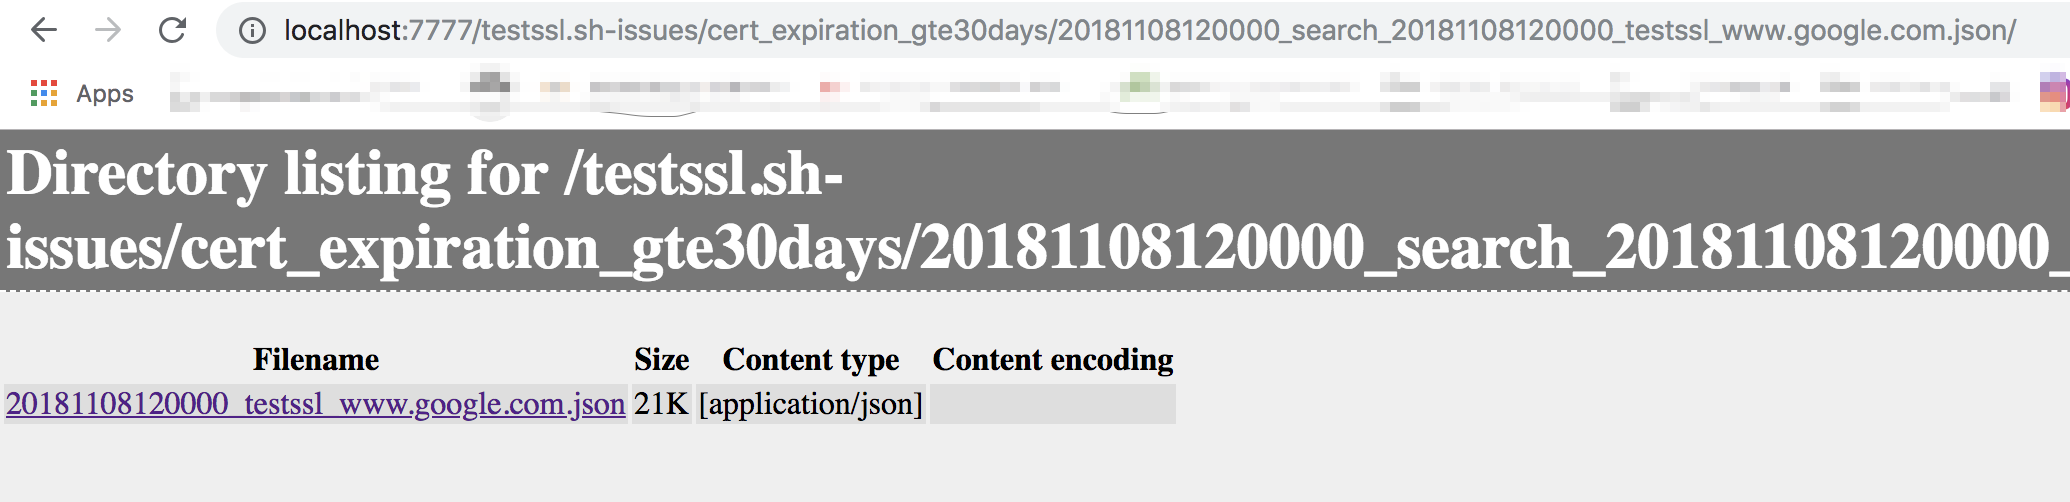
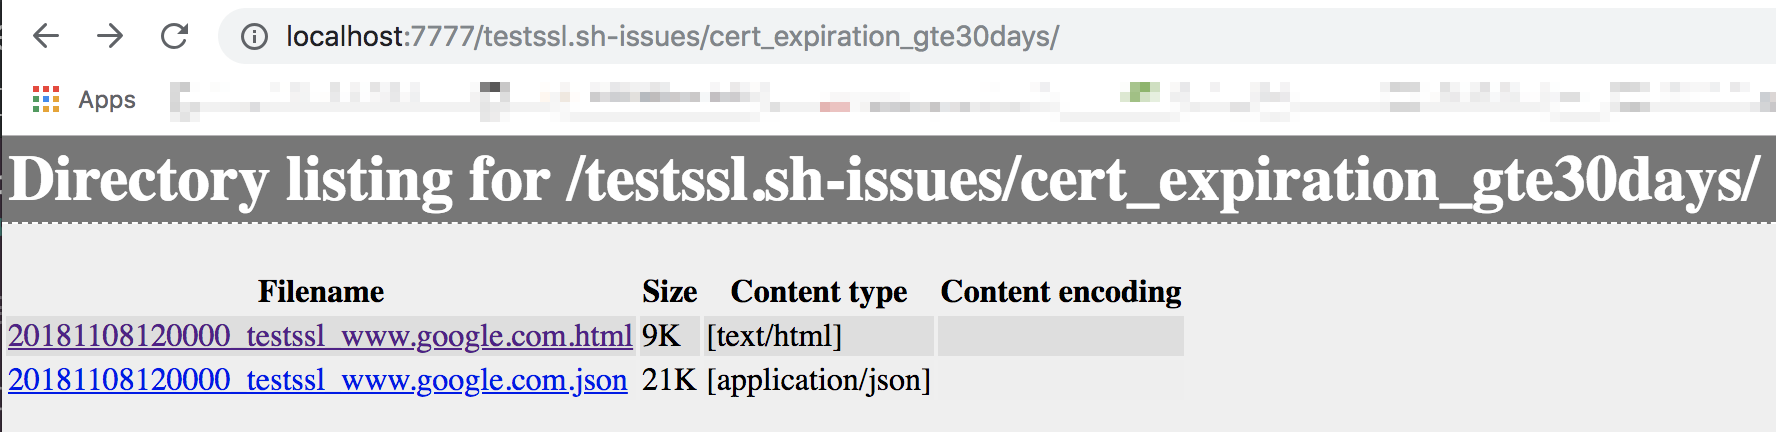
example copy html

Changed region(s): [[0.0, 0.1204, 1.0, 0.6019], [0.0, 0.6319, 0.6813, 0.9329], [0.0, 0.0301, 0.991, 0.1204]]

diff --git a/README.md b/README.md
@@ -129,9 +129,9 @@ At this point the handler is up and running.... the `--httpserver-root-dir` is s
 up the files copied via the `CopyFileReactor` config in the `example-config.yaml`
 
 ```
-2018-11-15 14:05:24,867 - root - INFO - Monitoring for new result handler config YAML files at: ./configs
-2018-11-15 14:05:24,869 - root - INFO - Monitoring for new testssl.sh result JSON files at: ./input
-2018-11-15 14:05:24,869 - root - INFO - Starting HTTP server listening on: 7777 and serving up: output/
+2018-11-15 14:17:34,583 - root - INFO - Monitoring for new result handler config YAML files at: ./configs
+2018-11-15 14:17:34,584 - root - INFO - Monitoring for new testssl.sh result JSON files at: ./input
+2018-11-15 14:17:34,585 - root - INFO - Starting HTTP server listening on: 7777 and serving up: output/
 ...
 ```
 
@@ -145,7 +145,7 @@ Which is then consumed by the handler...
 
 ```
 ...
-2018-11-15 14:05:28,971 - root - INFO - Responding to creation of result handler config file: ./configs/example-config.yaml
+2018-11-15 14:17:39,713 - root - INFO - Responding to creation of result handler config file: ./configs/example-config.yaml
 ...
 ```
 
@@ -162,25 +162,25 @@ This functionality could be used to automatically move `testssl.sh` JSON result 
 
 ```
 ...
-2018-11-15 14:05:36,269 - root - INFO - Responding to parsable testssl.sh JSON result: ./input/20181113_194917-www.google.com-testssl_cmds/www.google.com/20181108120000/public/search/20181108120000_testssl_www.google.com.json
-2018-11-15 14:05:36,269 - root - INFO - Received event for create of new testssl.sh JSON result file: './input/20181113_194917-www.google.com-testssl_cmds/www.google.com/20181108120000/public/search/20181108120000_testssl_www.google.com.json'
-2018-11-15 14:05:36,270 - root - INFO - testssl.sh JSON result file loaded OK: './input/20181113_194917-www.google.com-testssl_cmds/www.google.com/20181108120000/public/search/20181108120000_testssl_www.google.com.json'
-2018-11-15 14:05:36,270 - root - INFO - Evaluating ./input/20181113_194917-www.google.com-testssl_cmds/www.google.com/20181108120000/public/search/20181108120000_testssl_www.google.com.json against config 'example-config.yaml' ...
-2018-11-15 14:05:36,283 - root - DEBUG - exec_objectpath: query: $.testssl_result.scanResult[0].serverDefaults[split(@.id,' ')[0] is 'cert_notAfter'][@.finding]
-2018-11-15 14:05:36,290 - root - DEBUG - exec_objectpath: query: $.testssl_result.scanResult[0].serverDefaults[split(@.id,' ')[0] is 'cert_notAfter'][@.finding] raw result type(): <class 'generator'>
+2018-11-15 14:17:46,447 - root - INFO - Responding to parsable testssl.sh JSON result: ./input/20181113_194917-www.google.com-testssl_cmds/www.google.com/20181108120000/public/search/20181108120000_testssl_www.google.com.json
+2018-11-15 14:17:46,448 - root - INFO - Received event for create of new testssl.sh JSON result file: './input/20181113_194917-www.google.com-testssl_cmds/www.google.com/20181108120000/public/search/20181108120000_testssl_www.google.com.json'
+2018-11-15 14:17:46,449 - root - INFO - testssl.sh JSON result file loaded OK: './input/20181113_194917-www.google.com-testssl_cmds/www.google.com/20181108120000/public/search/20181108120000_testssl_www.google.com.json'
+2018-11-15 14:17:46,449 - root - INFO - Evaluating ./input/20181113_194917-www.google.com-testssl_cmds/www.google.com/20181108120000/public/search/20181108120000_testssl_www.google.com.json against config 'example-config.yaml' ...
+2018-11-15 14:17:46,458 - root - DEBUG - exec_objectpath: query: $.testssl_result.scanResult[0].serverDefaults[split(@.id,' ')[0] is 'cert_notAfter'][@.finding]
+2018-11-15 14:17:46,465 - root - DEBUG - exec_objectpath: query: $.testssl_result.scanResult[0].serverDefaults[split(@.id,' ')[0] is 'cert_notAfter'][@.finding] raw result type(): <class 'generator'>
+2018-11-15 14:17:46,465 - root - DEBUG - exec_objectpath: query: $.testssl_result.scanResult[0].serverDefaults[split(@.id,' ')[0] is 'cert_notAfter'][@.finding] next() returned val: 2019-01-22 06:14
 ...
-2018-11-15 14:05:36,570 - root - DEBUG - Invoking reactor: slack for 1 fired triggers
+2018-11-15 14:17:46,665 - root - DEBUG - Invoking reactor: slack for 1 fired triggers
+2018-11-15 14:17:46,683 - root - DEBUG - SlackReactor: Sending to slack....
+2018-11-15 14:17:46,691 - urllib3.connectionpool - DEBUG - Starting new HTTPS connection (1): hooks.slack.com
+2018-11-15 14:17:47,589 - urllib3.connectionpool - DEBUG - https://hooks.slack.com:443 "POST /services/TE2KJDF4L/BE22XTKGQ/4UKdwVZQ54U1NW8p7mtdowfN HTTP/1.1" 200 22
 ...
-2018-11-15 14:05:36,628 - root - DEBUG - SlackReactor: Sending to slack....
-2018-11-15 14:05:36,636 - urllib3.connectionpool - DEBUG - Starting new HTTPS connection (1): hooks.slack.com
-2018-11-15 14:05:37,533 - urllib3.connectionpool - DEBUG - https://hooks.slack.com:443 "POST /services/TE2KJDF4L/BE22XTKGQ/4UKdwVZQ54U1NW8p7mtdowfN HTTP/1.1" 200 22
+2018-11-15 14:17:47,597 - root - DEBUG - Invoking reactor: copy_json_result for 1 fired triggers
+2018-11-15 14:17:47,597 - root - DEBUG - CopyFileReactor: attempting cleanup of output/ older than 0.0001 days...
+2018-11-15 14:17:47,601 - root - INFO - CopyFileReactor: Copied OK /home/bitsofinfo/code/github.com/bitsofinfo/testssl.sh-alerts/input/20181113_194917-www.google.com-testssl_cmds/www.google.com/20181108120000/public/search/20181108120000_testssl_www.google.com.json TO output/testssl.sh-issues/cert_expiration_gte30days/
 ...
-2018-11-15 14:05:37,539 - root - DEBUG - Invoking reactor: copy_json_result for 1 fired triggers
-2018-11-15 14:05:37,539 - root - DEBUG - CopyFileReactor: attempting cleanup of output/ older than 0.0001 days...
-2018-11-15 14:05:37,543 - root - INFO - CopyFileReactor: Copied OK /home/bitsofinfo/code/github.com/bitsofinfo/testssl.sh-alerts/input/20181113_194917-www.google.com-testssl_cmds/www.google.com/20181108120000/public/search/20181108120000_testssl_www.google.com.json TO output/testssl.sh-issues/cert_expiration_gte30days/20181108120000_search_20181108120000_testssl_www.google.com.json
-...
-2018-11-15 14:05:37,543 - root - DEBUG - Invoking reactor: copy_html_result for 1 fired triggers
-2018-11-15 14:05:37,546 - root - INFO - CopyFileReactor: Copied OK /home/bitsofinfo/code/github.com/bitsofinfo/testssl.sh-alerts/input/20181113_194917-www.google.com-testssl_cmds/www.google.com/20181108120000/public/search/20181108120000_testssl_www.google.com.html TO output/testssl.sh-issues/cert_expiration_gte30days/
+2018-11-15 14:17:47,601 - root - DEBUG - Invoking reactor: copy_html_result for 1 fired triggers
+2018-11-15 14:17:47,604 - root - INFO - CopyFileReactor: Copied OK /home/bitsofinfo/code/github.com/bitsofinfo/testssl.sh-alerts/input/20181113_194917-www.google.com-testssl_cmds/www.google.com/20181108120000/public/search/20181108120000_testssl_www.google.com.html TO output/testssl.sh-issues/cert_expiration_gte30days/
 ```
 
 ## Result of `SlackReactor` alert:
